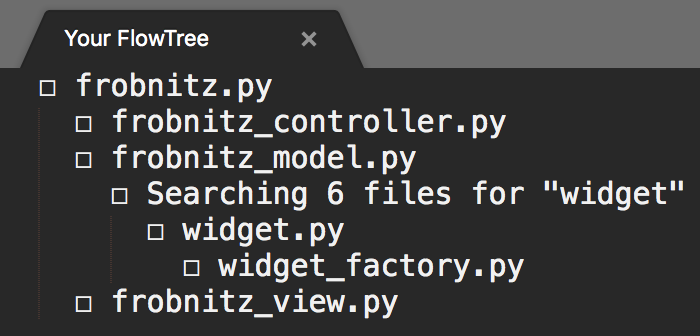
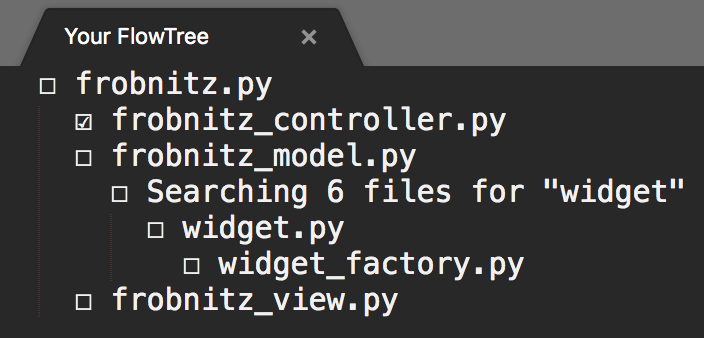
Add license and improve readme

diff --git a/README.md b/README.md
@@ -18,7 +18,7 @@ Open a file from a codebase you're working on and run the 'FlowTree: Show FlowTr
 
 In this example, the user is fixing a frobnitz-related bug that requires making changes to the frobnitz model, the frobnitz view, and the frobnitz controller.  Because frobnitz.py was the file that was open immediately before each of frobnitz_controller.py, frobnitz_model.py, and frobnitz_view.py were opened, they are each displayed as children of frobnitz.py.  Midway through fixing frobnitz_model.py, the user realizes that widget needs a refactor and searches the repository for the string "widget".  Partway through editing widget.py, they open widget_factory.py to make some changes there.  At each stage, it's possible to see where the user is in the task as a whole and what still needs to be done.
 
-As buffers get closed, the empty box ☐ turns into a checked box ☑ to indicate completion of that part of the task.  When the very first buffer which was opened gets closed, the entire FlowTree diagram disappears to get ready for the next task.
+As buffers get closed, the empty box ☐ turns into a checked box to indicate completion of that part of the task.  In the above screenshot, the user finished making modifications to frobnitz_controller.py and closed the file, causing its box to become checked.  When the very first buffer which was opened gets closed, the entire FlowTree diagram disappears to get ready for the next task.
 
 To provide further reminders about where you are in your editing workflow, if you leave text selected in a buffer before opening a new buffer, the text you left selected gets displayed alongside the old buffer in the FlowTree diagram.  This can be used to leave hints for yourself about what you were doing.
 
